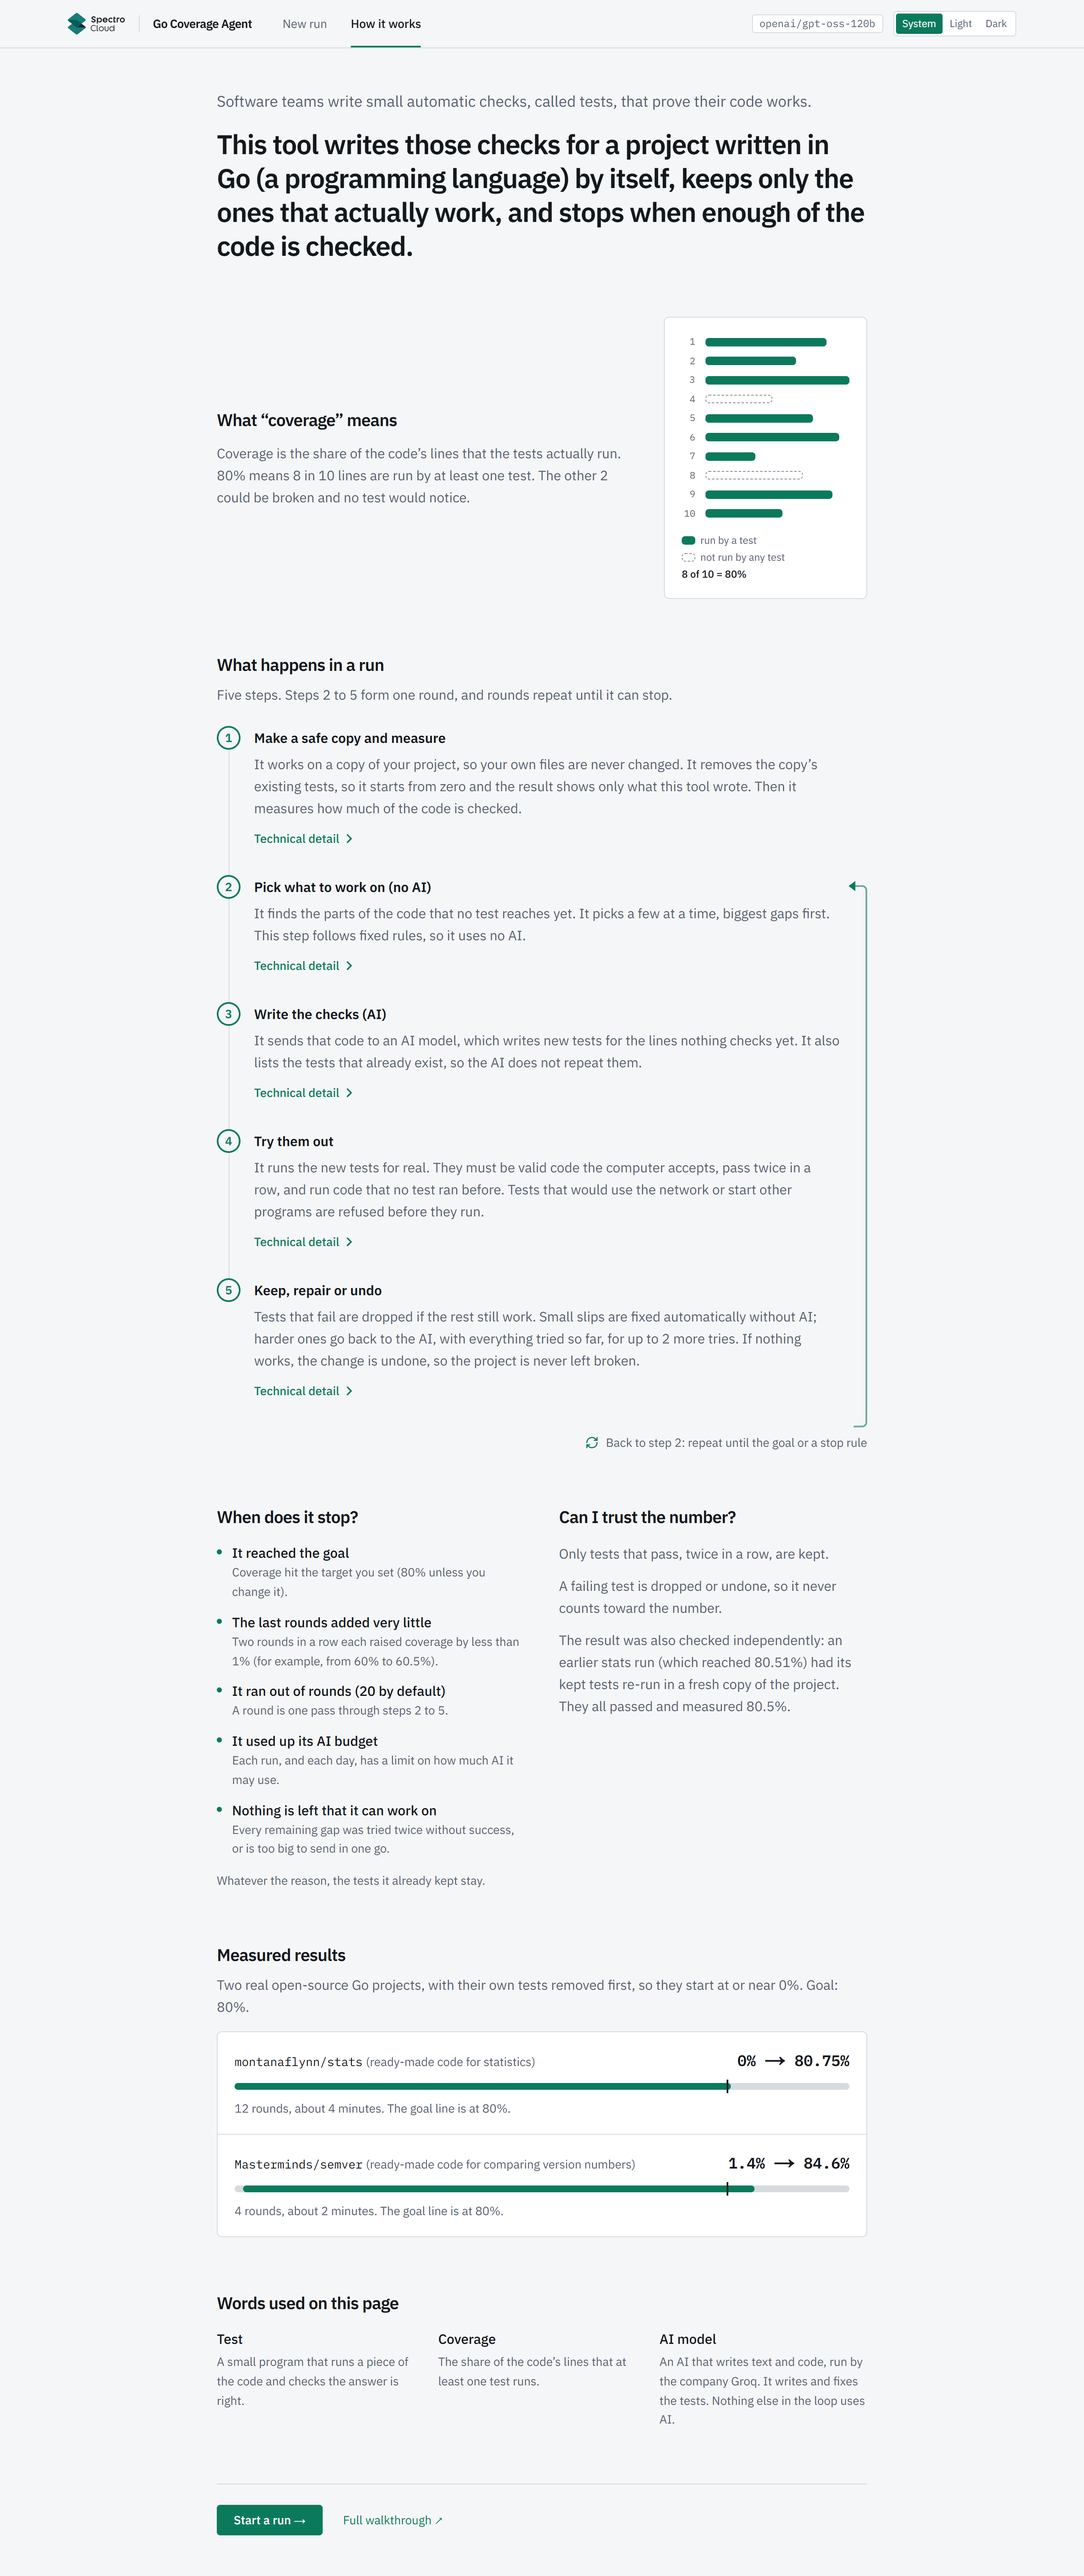
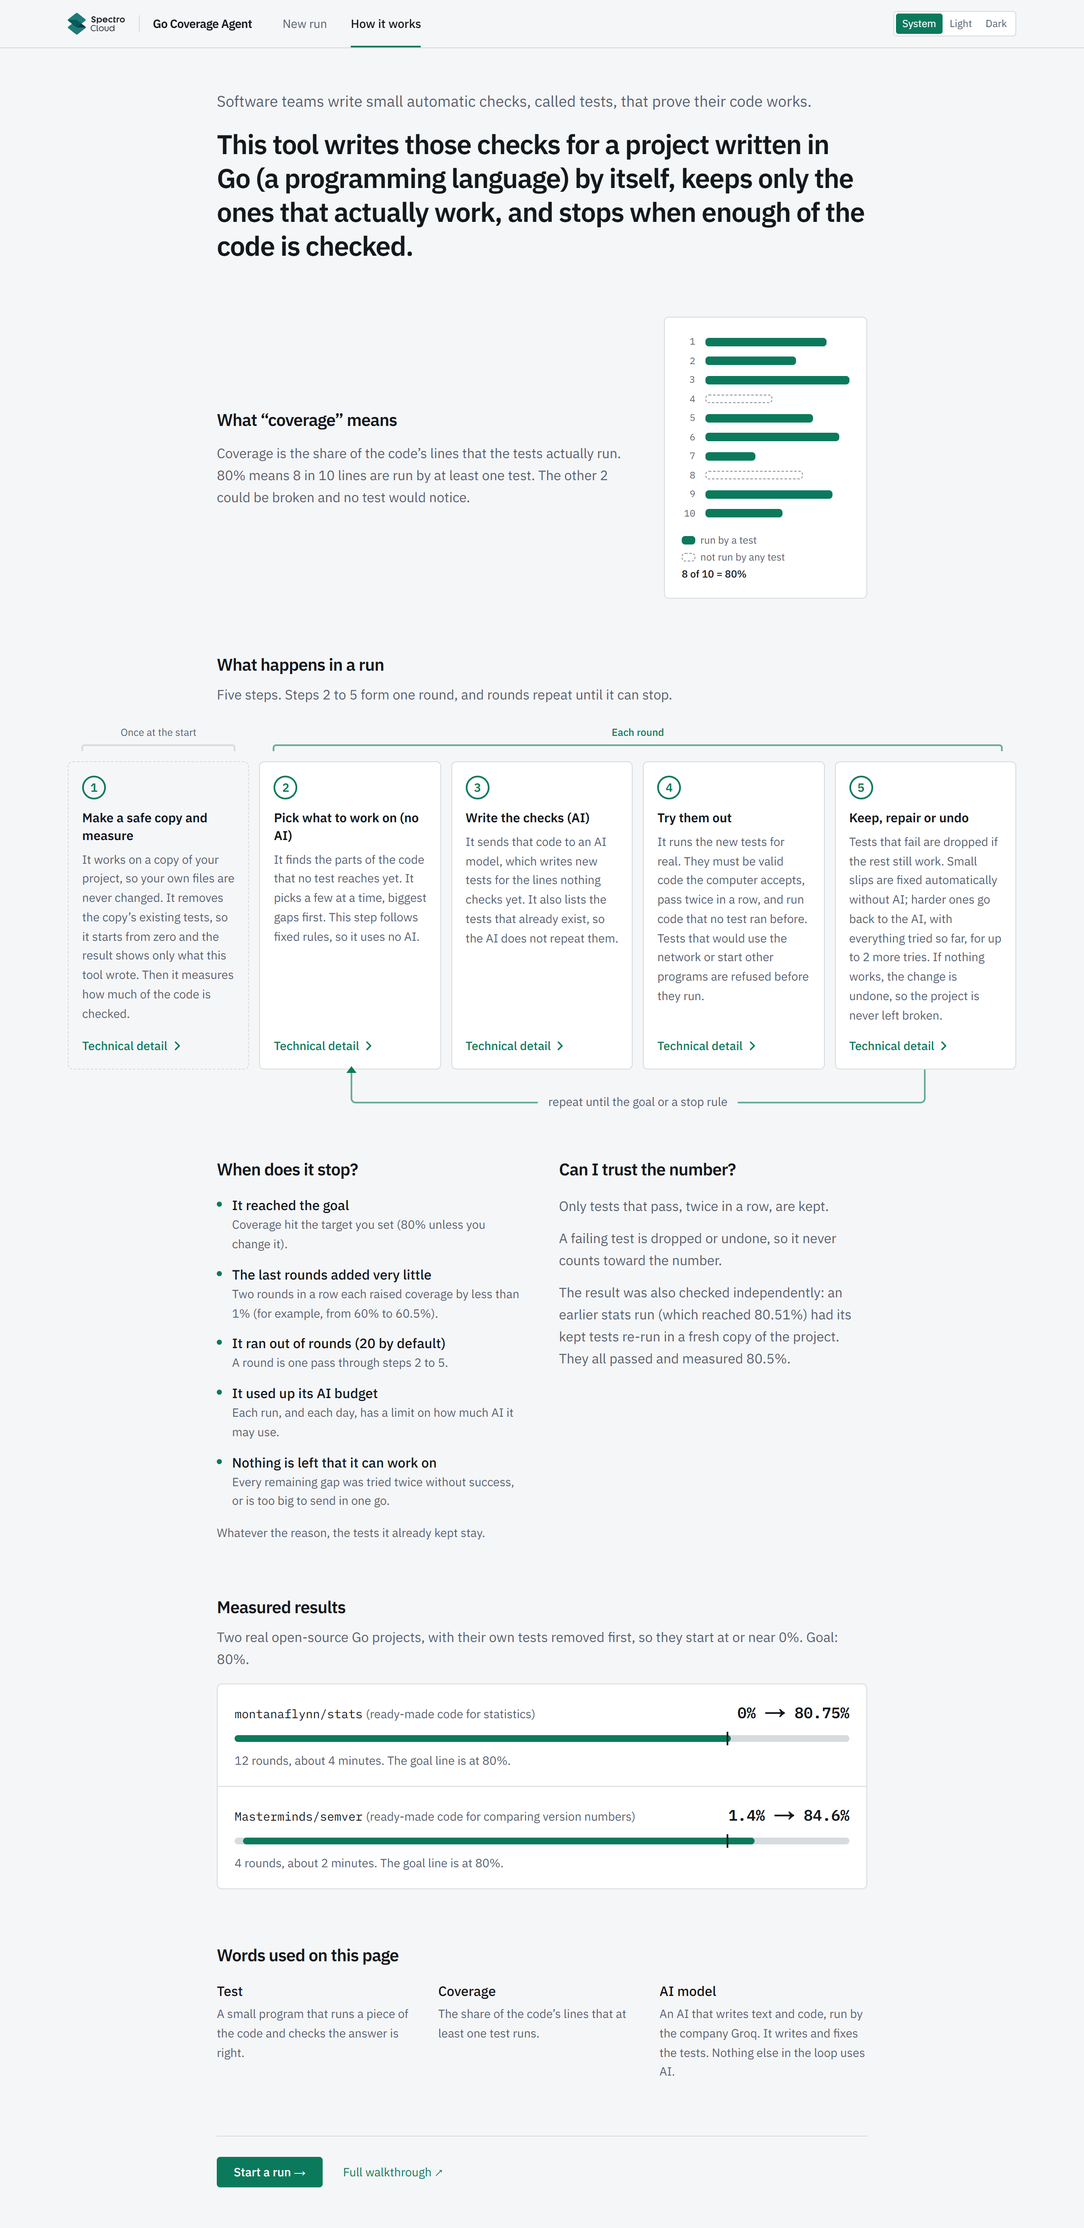
feat(frontend): How it works shows the run as a horizontal loop on desktop
From lg up, the five steps sit in one row of equal cards. Step 1 is
marked "Once at the start", steps 2 to 5 "Each round", and a connector
runs from step 5 back to step 2 labelled "repeat until the goal or a
stop rule". Opening a Technical detail grows only that card (subgrid,
details aligned to the top). Narrow screens keep the stacked list with
the vertical loop bracket. Screenshots retaken and README caption updated.

diff --git a/frontend/src/app/how-it-works/page.tsx b/frontend/src/app/how-it-works/page.tsx
@@ -99,7 +99,7 @@ function RepeatBracket({ index }: { index: number }) {
   const shape = index === 1 ? "top-3 bottom-0 rounded-tr-md border-t-2"
     : index === STEPS.length - 1 ? "inset-y-0 rounded-br-md border-b-2" : "inset-y-0";
   return (
-    <span aria-hidden className={`absolute right-0 w-4 border-r-2 border-accent/60 ${shape}`}>
+    <span aria-hidden className={`absolute right-0 w-4 border-r-2 border-accent/60 lg:hidden ${shape}`}>
       {index === 1 && (
         <svg viewBox="0 0 8 12" className="absolute -left-1.5 -top-[7px] h-3 w-2 text-accent" fill="currentColor"><path d="M0 6 8 0v12z" /></svg>
       )}
@@ -109,7 +109,7 @@ function RepeatBracket({ index }: { index: number }) {
 
 export default function HowItWorksPage() {
   return (
-    <div className="mx-auto max-w-3xl space-y-16">
+    <div className="space-y-16 [&>*:not(#loop)]:mx-auto [&>*:not(#loop)]:max-w-3xl">
       <section className="space-y-4">
         <p className="text-base leading-relaxed text-muted sm:text-lg">
           Software teams write small automatic checks, called tests, that prove their code works.
@@ -130,39 +130,65 @@ export default function HowItWorksPage() {
         <CoverageLines />
       </section>
 
-      <section aria-labelledby="loop-heading" className="space-y-6">
-        <div className="space-y-2">
+      <section id="loop" aria-labelledby="loop-heading" className="space-y-6">
+        <div className="mx-auto max-w-3xl space-y-2">
           <h2 id="loop-heading" className={h2}>What happens in a run</h2>
           <p className="leading-relaxed text-muted">Five steps. Steps 2 to 5 form one round, and rounds repeat until it can stop.</p>
         </div>
-        <ol>
-          {STEPS.map((s, i) => (
-            <li key={s.title} data-step={i + 1} className="relative flex gap-4 pr-8">
-              <div aria-hidden className="relative flex w-7 shrink-0 flex-col items-center">
-                <span className="flex h-7 w-7 items-center justify-center rounded-full border-2 border-accent text-sm font-semibold tabular-nums text-accent">{i + 1}</span>
-                {i < STEPS.length - 1 && <span className="w-px flex-1 bg-border" />}
+        <div className="mx-auto max-w-3xl lg:max-w-none">
+          <div aria-hidden data-testid="loop-phases" className="mb-3 hidden grid-cols-5 gap-3 text-xs lg:grid">
+            <div className="space-y-1.5 text-muted">
+              <p className="text-center">Once at the start</p>
+              <div className="mx-4 h-2 rounded-t-sm border-x-2 border-t-2 border-border" />
+            </div>
+            <div className="col-span-4 space-y-1.5 text-accent">
+              <p className="text-center font-medium">Each round</p>
+              <div className="mx-4 h-2 rounded-t-sm border-x-2 border-t-2 border-accent/60" />
+            </div>
+          </div>
+          <ol className="lg:grid lg:grid-cols-5 lg:gap-x-3">
+            {STEPS.map((s, i) => {
+              const card = i === 0 ? "lg:border-dashed lg:border-border" : "lg:border-border lg:bg-surface";
+              return (
+                <li key={s.title} data-step={i + 1}
+                    className="relative grid grid-cols-[1.75rem_minmax(0,1fr)] gap-x-4 pr-8 lg:row-span-2 lg:grid-cols-1 lg:grid-rows-subgrid lg:pr-0">
+                  <div aria-hidden className="relative row-span-2 flex flex-col items-center lg:hidden">
+                    <span className="flex h-7 w-7 items-center justify-center rounded-full border-2 border-accent text-sm font-semibold tabular-nums text-accent">{i + 1}</span>
+                    {i < STEPS.length - 1 && <span className="w-px flex-1 bg-border" />}
+                  </div>
+                  <div className={`min-w-0 space-y-1.5 pt-0.5 lg:rounded-t-md lg:border lg:border-b-0 lg:px-4 lg:pt-4 ${card}`}>
+                    <span aria-hidden className="mb-3 hidden h-7 w-7 items-center justify-center rounded-full border-2 border-accent text-sm font-semibold tabular-nums text-accent lg:flex">{i + 1}</span>
+                    <h3 className="font-semibold lg:text-[0.9375rem] lg:leading-snug">{s.title}</h3>
+                    <p className="leading-relaxed text-muted lg:text-sm">{s.plain}</p>
+                  </div>
+                  <details className={`group min-w-0 self-start pb-8 pt-2.5 lg:rounded-b-md lg:border lg:border-t-0 lg:px-4 lg:pb-4 lg:pt-3 ${card}`}>
+                    <summary className="inline-flex cursor-pointer list-none items-center gap-1 rounded-sm text-sm font-medium text-accent focus-visible:outline-2 focus-visible:outline-offset-2 focus-visible:outline-accent [&::-webkit-details-marker]:hidden">
+                      <span>Technical detail<span className="sr-only">: {s.title}</span></span><Chevron />
+                    </summary>
+                    <p className="mt-2 border-l-2 border-border pl-3 text-sm leading-relaxed text-muted">{s.tech}</p>
+                  </details>
+                  <RepeatBracket index={i} />
+                </li>
+              );
+            })}
+          </ol>
+          <p className="sr-only">Step 1 happens once, at the start. After step 5 it starts again from step 2 with the new coverage, until it reaches the goal or a stop rule.</p>
+          <div aria-hidden data-testid="repeat-connector" className="hidden lg:block">
+            <div className="relative h-10">
+              <div className="absolute inset-y-0 rounded-b-md border-x-2 border-b-2 border-accent/60"
+                   style={{ left: "calc((100% - 3rem) / 5 * 1.5 + 0.75rem)", right: "calc((100% - 3rem) / 10)" }}>
+                <svg viewBox="0 0 12 8" className="absolute -left-[7px] -top-1 h-2 w-3 text-accent" fill="currentColor"><path d="M6 0 12 8H0z" /></svg>
+                <span className="absolute -bottom-2.5 left-1/2 -translate-x-1/2 whitespace-nowrap bg-bg px-3 text-sm text-muted">repeat until the goal or a stop rule</span>
               </div>
-              <div className="min-w-0 flex-1 space-y-1.5 pb-8 pt-0.5">
-                <h3 className="font-semibold">{s.title}</h3>
-                <p className="leading-relaxed text-muted">{s.plain}</p>
-                <details className="group pt-1">
-                  <summary className="inline-flex cursor-pointer list-none items-center gap-1 rounded-sm text-sm font-medium text-accent focus-visible:outline-2 focus-visible:outline-offset-2 focus-visible:outline-accent [&::-webkit-details-marker]:hidden">
-                    <span>Technical detail<span className="sr-only">: {s.title}</span></span><Chevron />
-                  </summary>
-                  <p className="mt-2 border-l-2 border-border pl-3 text-sm leading-relaxed text-muted">{s.tech}</p>
-                </details>
-              </div>
-              <RepeatBracket index={i} />
-            </li>
-          ))}
-        </ol>
-        <p className="sr-only">After step 5 it starts again from step 2 with the new coverage, until it reaches the goal or a stop rule.</p>
-        <p aria-hidden data-testid="repeat-connector" className="-mt-4 flex items-center justify-end gap-2 text-right text-sm text-muted">
-          <svg viewBox="0 0 24 24" className="h-4 w-4 shrink-0 text-accent" fill="none" stroke="currentColor" strokeWidth="2" strokeLinecap="round" strokeLinejoin="round">
-            <path d="M3 12a9 9 0 0 1 15.5-6.2L21 8" /><path d="M21 3v5h-5" /><path d="M21 12a9 9 0 0 1-15.5 6.2L3 16" /><path d="M3 21v-5h5" />
-          </svg>
-          Back to step 2: repeat until the goal or a stop rule
-        </p>
+            </div>
+          </div>
+          <p aria-hidden data-testid="repeat-connector-narrow" className="mt-2 flex items-center justify-end gap-2 text-right text-sm text-muted lg:hidden">
+            <svg viewBox="0 0 24 24" className="h-4 w-4 shrink-0 text-accent" fill="none" stroke="currentColor" strokeWidth="2" strokeLinecap="round" strokeLinejoin="round">
+              <path d="M3 12a9 9 0 0 1 15.5-6.2L21 8" /><path d="M21 3v5h-5" /><path d="M21 12a9 9 0 0 1-15.5 6.2L3 16" /><path d="M3 21v-5h5" />
+            </svg>
+            Back to step 2: repeat until the goal or a stop rule
+          </p>
+        </div>
       </section>
 
       <div className="grid gap-12 md:grid-cols-2 md:gap-10">

diff --git a/frontend/src/app/how-it-works/page.test.tsx b/frontend/src/app/how-it-works/page.test.tsx
@@ -38,10 +38,32 @@ describe("HowItWorksPage", () => {
     expect(within(steps[4]).getByText(/history of every earlier attempt/)).toBeInTheDocument();
   });
 
-  it("shows the repeat connector from step 5 back to step 2", () => {
+  it("keeps the steps in one real ordered list", () => {
     render(<HowItWorksPage />);
-    expect(screen.getByTestId("repeat-connector")).toHaveTextContent("Back to step 2: repeat until the goal or a stop rule");
-    expect(screen.getByText(/starts again from step 2/)).toBeInTheDocument();
+    const steps = screen.getAllByRole("listitem").filter((li) => li.hasAttribute("data-step"));
+    expect(steps).toHaveLength(5);
+    expect(new Set(steps.map((li) => li.parentElement))).toEqual(new Set([steps[0].parentElement]));
+    expect(steps[0].parentElement!.tagName).toBe("OL");
+    expect(steps.map((li) => li.getAttribute("data-step"))).toEqual(["1", "2", "3", "4", "5"]);
+  });
+
+  it("marks step 1 as once and steps 2 to 5 as the repeated round", () => {
+    render(<HowItWorksPage />);
+    const phases = screen.getByTestId("loop-phases");
+    expect(phases).toHaveAttribute("aria-hidden");
+    expect(phases).toHaveTextContent("Once at the start");
+    expect(phases).toHaveTextContent("Each round");
+    expect(screen.getByText(/Step 1 happens once, at the start\. After step 5 it starts again from step 2/)).toHaveClass("sr-only");
+  });
+
+  it("shows the repeat connector from step 5 back to step 2, wide and narrow, hidden from screen readers", () => {
+    render(<HowItWorksPage />);
+    const wide = screen.getByTestId("repeat-connector");
+    expect(wide).toHaveAttribute("aria-hidden");
+    expect(wide).toHaveTextContent(/^repeat until the goal or a stop rule$/);
+    const narrow = screen.getByTestId("repeat-connector-narrow");
+    expect(narrow).toHaveAttribute("aria-hidden");
+    expect(narrow).toHaveTextContent("Back to step 2: repeat until the goal or a stop rule");
   });
 
   it("shows the stop rules, the trust notes, the measured results and the links", () => {

diff --git a/README.md b/README.md
@@ -170,8 +170,8 @@ I ran the system end to end, spotted these problems, and decided the fixes. Clau
 </tr>
 <tr>
 <td valign="top">
-<a href="docs/screenshots/gallery-howitworks.png"><img src="docs/screenshots/gallery-howitworks.png" width="100%" alt="How it works page: a plain-language explanation of the five-step loop"></a>
-<br><b>How it works page</b><br>A plain-language explanation for non-developers: what tests and coverage are (8 of 10 lines = 80%), the five steps of a run, each with a collapsed Technical detail, when it stops, why the number can be trusted, and measured results for <code>montanaflynn/stats</code> (0% to 80.75% in 12 rounds, about 4 minutes) and <code>Masterminds/semver</code> (1.4% to 84.6% in 4 rounds, about 2 minutes).
+<a href="docs/screenshots/gallery-howitworks.png"><img src="docs/screenshots/gallery-howitworks.png" width="100%" alt="How it works page: the five steps of a run side by side, with steps 2 to 5 marked as one round and an arrow from step 5 back to step 2"></a>
+<br><b>How it works page</b><br>A plain-language explanation for non-developers: what tests and coverage are (8 of 10 lines = 80%), the five steps of a run side by side (step 1 once at the start, steps 2 to 5 as one round with an arrow from step 5 back to step 2), each with a collapsed Technical detail, when it stops, why the number can be trusted, and measured results for <code>montanaflynn/stats</code> (0% to 80.75% in 12 rounds, about 4 minutes) and <code>Masterminds/semver</code> (1.4% to 84.6% in 4 rounds, about 2 minutes).
 </td>
 <td valign="top">
 <a href="docs/screenshots/gallery-howitworks-mobile.png"><img src="docs/screenshots/gallery-howitworks-mobile.png" width="100%" alt="How it works page on a phone-width screen"></a>
